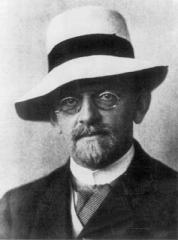
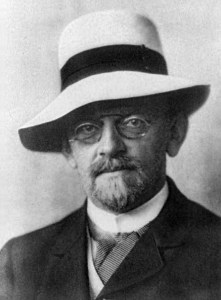
Bilder Mathematiker für Startseite vereinheitlicht

diff --git a/zufallstuff.js b/zufallstuff.js
@@ -14,7 +14,7 @@ function start() {
 }
 
 var Spiel=[
-'<a href="anwendungenmath/blackjack/"><img src="/img/blackjack.jpg" class="a"></a>',
+'<a href="/anwendungenmath/blackjack/"><img src="/img/blackjack.jpg" class="a"></a>',
 '<a href="/anwendungenmath/solitaire/"><img src="/img/solitaire.png" class="a"></a>',
 '<a href="/spiele/Sokoban/"><img src="/img/sokoban.png" class="a"></a>',
 '<a href="/spiele/hanoi_mit_grafik/"><img src="/img/hanoi.png" class="a"></a>',
@@ -68,7 +68,10 @@ var Wahlbi=[
 '<a href="/anwendungenmath/wkeit/binomialvert.html"><img src="/img/binomialverteilung.png" class="a"></a>',
 '<a href="/anwendungenmath/wkeit/approx_bin_norm.html"><img src="/img/approx.jpg" class="a"></a>'
 ];
-var txtbi=["Binomial&shy;verteilung","Approximation<br>Binomial&shy;verteilung"];
+var txtbi = [];
+txtbi[0]="Binomial&shy;verteilung";
+if (window.innerWidth > 400) txtbi[1]="Approximation<br>Binomialverteilung";
+    else txtbi[1]="Approximation<br>Binomialvert";
 
 // fractal oder Mandelbrot
 var fractal=[
@@ -79,16 +82,16 @@ var txtfrac=["Fraktale","Mandelbrot"];
 
 //Zufallsmathematiker
 var math=[
-'<a href="mathematiker/euler.html"><img src="/img/euler.jpg" class="b"></a>',
+'<a href="/mathematiker/euler.html"><img src="/img/euler.jpg" class="b"></a>',
 '<a href="/mathematiker/newton.html"><img src="/img/newton.jpg" class="b"></a>',
-'<a href="/mathematiker/fermat.html"><img src="/img/fermat.jpg" class="a"></a>',
+'<a href="/mathematiker/fermat.html"><img src="/img/fermat.jpg" class="b"></a>',
 '<a href="/mathematiker/gauss.html"><img src="/img/gauss.jpg" class="b"></a>',
-'<a href="mathematiker/galois.html"><img src="/mathematiker/Galois.jpg" class="b"></a>',
-'<a href="/mathematiker/goedel.html"><img src="/mathematiker/goedel.jpg" class="b"></a>',
+'<a href="/mathematiker/galois.html"><img src="/img/galois.jpg" class="b"></a>',
+'<a href="/mathematiker/goedel.html"><img src="/img/goedel.jpg" class="b"></a>',
 '<a href="/mathematiker/hilbert.html"><img src="/img/hilbert.jpg" class="b"></a>',
-'<a href="/mathematiker/einstein.html"><img src="/mathematiker/Einstein.jpg" class="a"></a>',
-'<a href="/mathematiker/leibniz.html"><img src="/img/leibniz.jpg" class="a" style="max-width:190px"></a>',
-'<a href="/mathematiker/abel.html"><img src="/mathematiker/Abel.jpg" class="b"></a>'
+'<a href="/mathematiker/einstein.html"><img src="/mathematiker/Einstein.jpg" class="b"></a>',
+'<a href="/mathematiker/leibniz.html"><img src="/img/leibniz.jpg" class="b"></a>',
+'<a href="/mathematiker/abel.html"><img src="/img/abel.jpg" class="b"></a>'
 ];
 var txtmath=["Leonhard Euler","Isaac Newton","Pierre Fermat","C.F. Gauss","Evariste Galois","Kurt Gödel","David Hilbert","Albert Einstein","G.W. Leibniz","Niels Abel"];
 

diff --git a/css/mathematik.css b/css/mathematik.css
@@ -11,7 +11,7 @@ h4{font-size:20px;font-family:Helvetica,Arial;margin-top:15px;margin-bottom:15px
 small{font-size:14px}
 ul{list-style-type:none;margin:0;padding:0}
 #menu ul>li{padding:6px}
-input[type=button] {cursor:pointer;background-color:#E0FFFF}
+input[type=button] {border:1px solid;cursor:pointer;background-color:#E0FFFF}
 input[type=submit] {background-color:#E0FFFF}
 select{background-color:#E0FFFF}
 input[type=radio]{width:16px;height:16px;cursor:pointer;}
@@ -27,8 +27,8 @@ td.amazon{font-size:11px;vertical-align:top;text-align:center;background-color:#
 span.ol{font-size:15px;font-family:Arial,Helvetica;text-decoration:overline}
 span.Haupt{margin-left:auto;margin-right:auto;font-family:'Times New Roman',Times,serif;font-weight:bold;font-size:30px;}
 img{border:0}
-img.a{width:100%;height:auto;min-width:90px;max-width:200px}
-img.b{width:100%;height:auto;min-width:80px;max-width:120px}
+img.a{width:100%;height:auto;min-width:80px;max-width:190px}
+img.b{width:100%;height:auto;min-width:80px;max-width:170px}
 img.center{display:block;margin-left:auto;margin-right:auto}
 img[src="/img/help.gif"]{width:24px;height:30px;vertical-align:middle;}
 img[src="/img/menuicon.png"]{width:26px;height:26px;cursor:pointer;vertical-align:middle;}

diff --git a/mathematiker/hilbert.html b/mathematiker/hilbert.html
@@ -36,7 +36,7 @@
 <h4>Hilbert, David</h4>
 <div class="colgroup-2">
  <div class="col">
-  <img class="center" src="hilbert.jpg" width="178" height="240" alt="Hilbert">
+  <img class="center" src="hilbert.jpg" width="221" height="300" alt="Hilbert">
  </div>
  <div class="col">
  David Hilbert (23.01.1862 - 14.02.1943) wurde in Königsberg geboren. Sein Vater und sein Grossvater waren Richter. 
